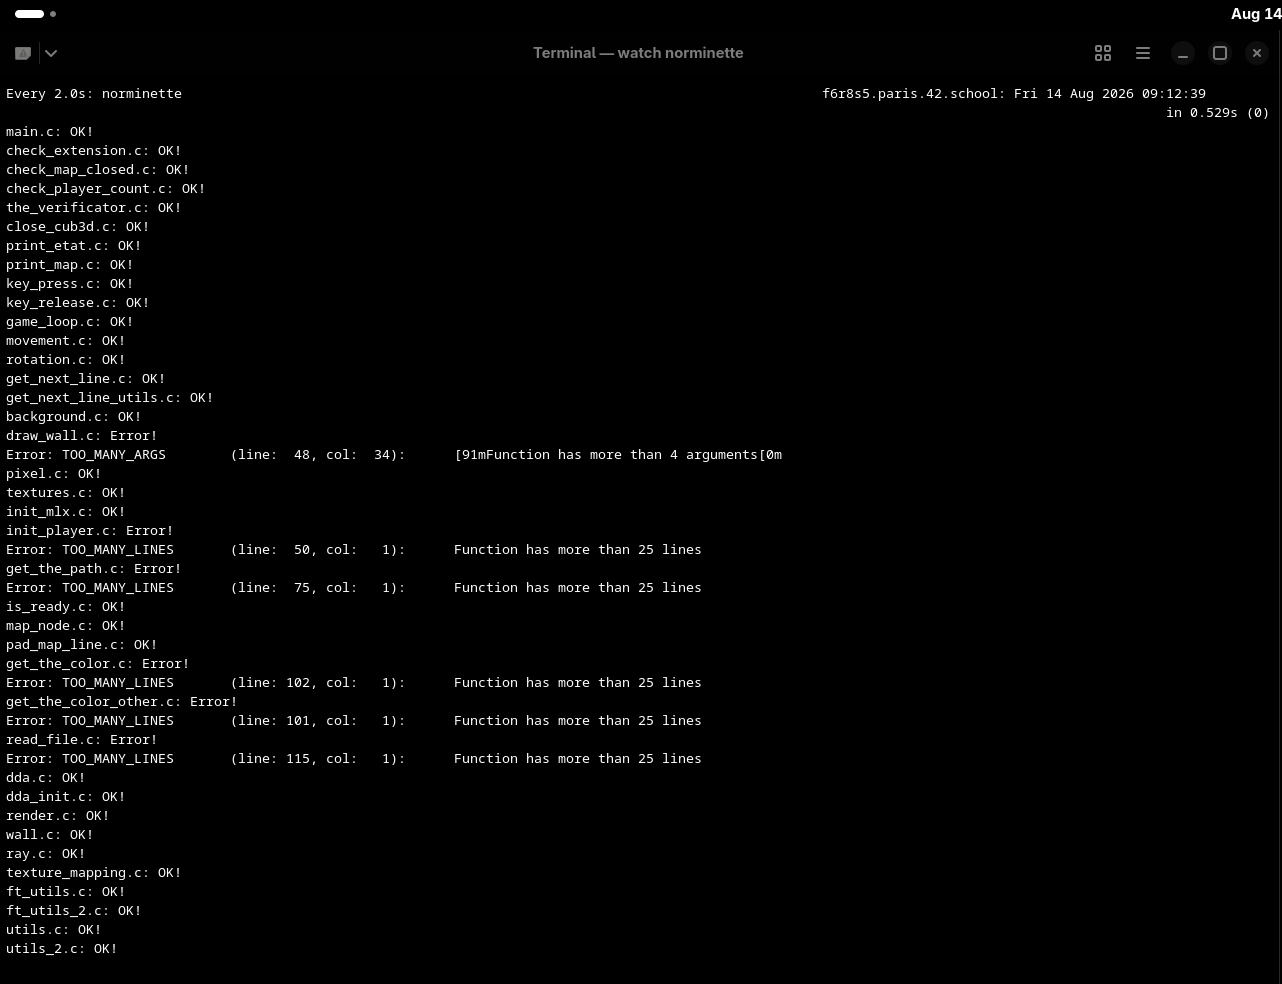
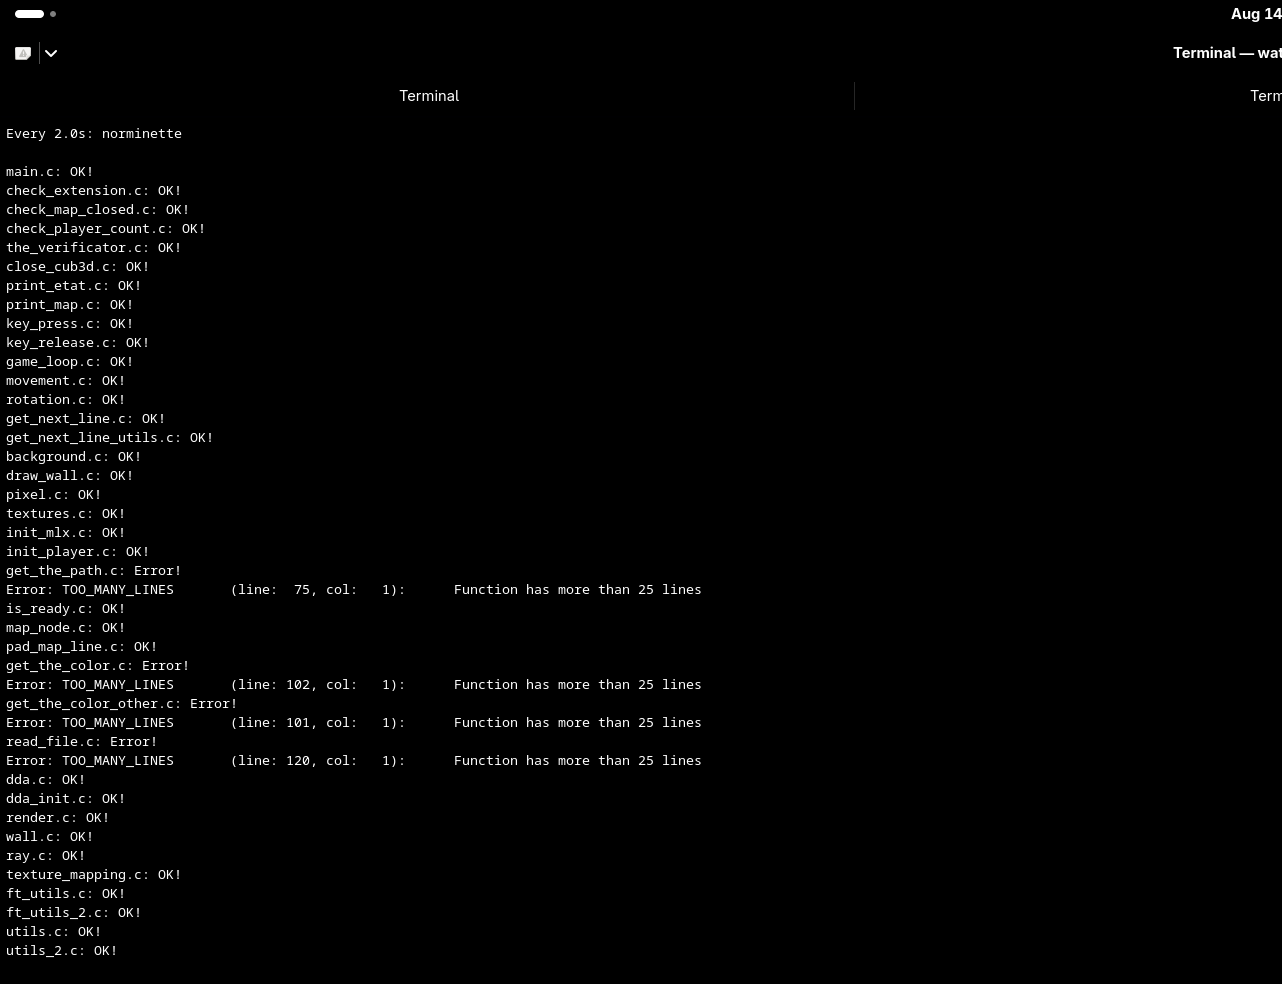
norme: init_player.c, draw_wall.c

diff --git a/sources/init/init_player.c b/sources/init/init_player.c
@@ -3,10 +3,10 @@
 /*                                                        :::      ::::::::   */
 /*   init_player.c                                      :+:      :+:    :+:   */
 /*                                                    +:+ +:+         +:+     */
-/*   By: rhorace <rhorace@learner.42.tech>          +#+  +:+       +#+        */
+/*   By: rhorace <rhorace@student.42paris.fr>       +#+  +:+       +#+        */
 /*                                                +#+#+#+#+#+   +#+           */
 /*   Created: 2026/08/10 08:28:21 by rhorace           #+#    #+#             */
-/*   Updated: 2026/08/10 08:28:26 by rhorace          ###   ########.fr       */
+/*   Updated: 2026/08/14 10:47:20 by rhorace          ###   ########.fr       */
 /*                                                                            */
 /* ************************************************************************** */
 
@@ -23,27 +23,43 @@ static void	set_player_direction(t_player *player, char direction)
 	{
 		player->dir.x = 0.0;
 		player->dir.y = -1.0;
-		player->plane.x = 0.57735026919;
-		player->plane.y = 0.0;
 	}
 	else if (direction == 'S')
 	{
 		player->dir.x = 0.0;
 		player->dir.y = 1.0;
-		player->plane.x = -0.57735026919;
-		player->plane.y = 0.0;
 	}
 	else if (direction == 'E')
 	{
 		player->dir.x = 1.0;
 		player->dir.y = 0.0;
-		player->plane.x = 0.0;
-		player->plane.y = 0.57735026919;
 	}
 	else if (direction == 'W')
 	{
 		player->dir.x = -1.0;
 		player->dir.y = 0.0;
+	}
+}
+
+static void	set_player_plane(t_player *player, char direction)
+{
+	if (direction == 'N')
+	{
+		player->plane.x = 0.57735026919;
+		player->plane.y = 0.0;
+	}
+	else if (direction == 'S')
+	{
+		player->plane.x = -0.57735026919;
+		player->plane.y = 0.0;
+	}
+	else if (direction == 'E')
+	{
+		player->plane.x = 0.0;
+		player->plane.y = 0.57735026919;
+	}
+	else if (direction == 'W')
+	{
 		player->plane.x = 0.0;
 		player->plane.y = -0.57735026919;
 	}
@@ -54,6 +70,7 @@ static void	set_player_position(t_game *cub3d, int x, int y, char direction)
 	cub3d->player.pos.x = x + 0.5;
 	cub3d->player.pos.y = y + 0.5;
 	set_player_direction(&cub3d->player, direction);
+	set_player_plane(&cub3d->player, direction);
 }
 
 void	init_player(t_game *cub3d)

diff --git a/sources/graphics/draw_wall.c b/sources/graphics/draw_wall.c
@@ -3,30 +3,14 @@
 /*                                                        :::      ::::::::   */
 /*   draw_wall.c                                        :+:      :+:    :+:   */
 /*                                                    +:+ +:+         +:+     */
-/*   By: rhorace <rhorace@learner.42.tech>          +#+  +:+       +#+        */
+/*   By: rhorace <rhorace@student.42paris.fr>       +#+  +:+       +#+        */
 /*                                                +#+#+#+#+#+   +#+           */
 /*   Created: 2026/08/07 09:21:14 by rhorace           #+#    #+#             */
-/*   Updated: 2026/08/07 09:21:17 by rhorace          ###   ########.fr       */
+/*   Updated: 2026/08/14 11:02:50 by rhorace          ###   ########.fr       */
 /*                                                                            */
 /* ************************************************************************** */
 
 #include "cub3D.h"
-
-/*static int	get_tex_y(t_texture *texture, t_wall *wall, int y)
-{
-	float	step;
-	float	tex_pos;
-	int		tex_y;
-
-	step = (float)texture->height / wall->height;
-	tex_pos = (y - WIN_HEIGHT / 2 + wall->height / 2) * step;
-	tex_y = (int)tex_pos;
-	if (tex_y < 0)
-		tex_y = 0;
-	if (tex_y >= texture->height)
-		tex_y = texture->height - 1;
-	return (tex_y);
-}*/
 
 static int	get_tex_y(t_texture *texture, t_wall *wall, int y)
 {
@@ -44,8 +28,7 @@ static int	get_tex_y(t_texture *texture, t_wall *wall, int y)
 	return (tex_y);
 }
 
-void	draw_wall(t_game *cub3d, int x, t_dda *dda,
-	t_wall *wall, int texture_id)
+void	draw_wall(t_game *cub3d, int x, t_wall *wall, int texture_id)
 {
 	t_texture	*texture;
 	int			tex_y;
@@ -61,5 +44,4 @@ void	draw_wall(t_game *cub3d, int x, t_dda *dda,
 		put_pixel(cub3d, x, y, color);
 		y++;
 	}
-	(void)dda;
 }

diff --git a/sources/raycasting/ray.c b/sources/raycasting/ray.c
@@ -3,10 +3,10 @@
 /*                                                        :::      ::::::::   */
 /*   ray.c                                              :+:      :+:    :+:   */
 /*                                                    +:+ +:+         +:+     */
-/*   By: rhorace <rhorace@learner.42.tech>          +#+  +:+       +#+        */
+/*   By: rhorace <rhorace@student.42paris.fr>       +#+  +:+       +#+        */
 /*                                                +#+#+#+#+#+   +#+           */
 /*   Created: 2026/08/10 08:29:20 by rhorace           #+#    #+#             */
-/*   Updated: 2026/08/10 08:29:23 by rhorace          ###   ########.fr       */
+/*   Updated: 2026/08/14 11:04:05 by rhorace          ###   ########.fr       */
 /*                                                                            */
 /* ************************************************************************** */
 
@@ -26,5 +26,5 @@ void	cast_ray(t_game *cub3d, int x)
 	get_wall_limits(&wall, distance);
 	texture_id = get_texture_id(&dda);
 	wall.tex_x = get_texture_x(cub3d, &dda, distance, texture_id);
-	draw_wall(cub3d, x, &dda, &wall, texture_id);
+	draw_wall(cub3d, x, &wall, texture_id);
 }

diff --git a/includes/cub3D.h b/includes/cub3D.h
@@ -6,7 +6,7 @@
 /*   By: rhorace <rhorace@student.42paris.fr>       +#+  +:+       +#+        */
 /*                                                +#+#+#+#+#+   +#+           */
 /*   Created: 2026/07/06 09:49:58 by rhorace           #+#    #+#             */
-/*   Updated: 2026/08/13 14:11:11 by rhorace          ###   ########.fr       */
+/*   Updated: 2026/08/14 11:03:40 by rhorace          ###   ########.fr       */
 /*                                                                            */
 /* ************************************************************************** */
 
@@ -357,7 +357,7 @@ void			put_pixel(t_game *cub3d, int x, int y, int color);
 int				get_texture_pixel(t_texture *texture, int x, int y);
 int				rgb_to_int(t_color color);
 void			draw_background(t_game *cub3d);
-void			draw_wall(t_game *cub3d, int x, t_dda *dda, t_wall *wall, \
+void			draw_wall(t_game *cub3d, int x, t_wall *wall, \
 int texture_id);
 
 int				init_mlx(t_game *cub3d);

diff --git a/sources/main.c b/sources/main.c
@@ -6,7 +6,7 @@
 /*   By: rhorace <rhorace@student.42paris.fr>       +#+  +:+       +#+        */
 /*                                                +#+#+#+#+#+   +#+           */
 /*   Created: 2026/07/06 09:49:38 by rhorace           #+#    #+#             */
-/*   Updated: 2026/08/10 14:48:57 by rhorace          ###   ########.fr       */
+/*   Updated: 2026/08/14 10:17:29 by rhorace          ###   ########.fr       */
 /*                                                                            */
 /* ************************************************************************** */
 
@@ -48,8 +48,6 @@ int	main(int argc, char **argv)
 		return (send_message("Invalid file name", argv[1]), 1);
 	if (!read_file(&cub3d, argv[1]))
 		return (close_cub3d(&cub3d, 1), 1);
-	print_etat(cub3d);
-	print_map(cub3d.map.grid);
 	if (!the_verificator(&cub3d))
 		return (close_cub3d(&cub3d, 1), 1);
 	if (!init_mlx(&cub3d))
